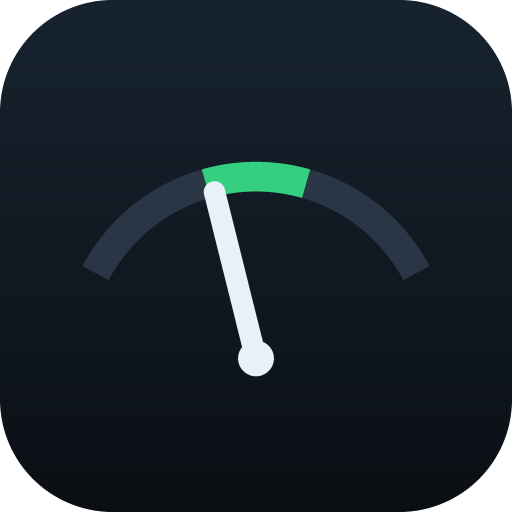
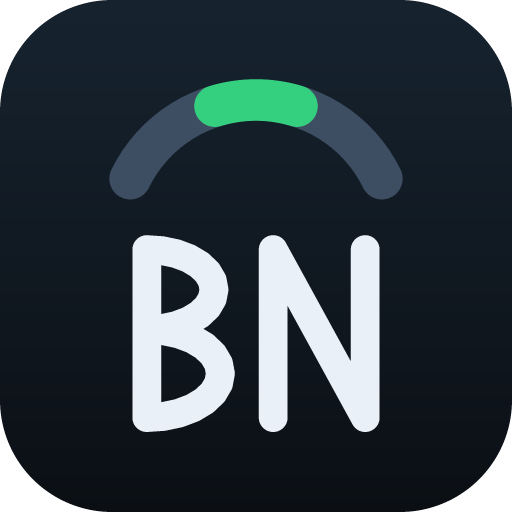
Met le « BN » dans la marque
L'icône devient le cadran en haut et « BN » en dessous, en monoline à bouts
ronds : la même langue visuelle que l'aiguille et les graduations de l'app.

Les lettres sont de la géométrie, pas du texte : aucune police à embarquer,
rendu identique partout. Un premier essai à trait 5 pour des panses de rayon 6
donnait des contrepoinçons de 1,2 unité — le B se lisait comme une tache. Trait
ramené à 0,16 de la hauteur de capitale et panses élargies : les trous font
maintenant 4,8 x 6,8 et 5,6 x 8,0. Proportions B 0,61 et N 0,72 de la
capitale, cadran éclairci pour rester lisible en 32 px.

Le rasteriseur trace désormais le cadran en polyligne comme les lettres, au
lieu d'une bande d'arc coupée à plat : bouts ronds partout, et surtout le même
tracé que le SVG. Vérifié en décodant les deux images : écart moyen de
0,64/255, 99,25 % des pixels à moins de 8, les écarts restants tenant sur des
bords d'un pixel (anticrénelage analytique de Chromium contre
suréchantillonnage 4x4).

Boîte englobante par tracé et sortie au premier segment touché : la génération
passe de 42 s à 1,8 s, pour un résultat inchangé.

favicon.svg est maintenant produit par l'outil, depuis les mêmes constantes que
les PNG : les deux ne peuvent plus diverger. Cache du service worker en v4 pour
que les nouvelles icônes remplacent les anciennes.

Changed region(s): [[0.1562, 0.1562, 0.8438, 0.8438]]

diff --git a/sw.js b/sw.js
@@ -2,7 +2,7 @@
 // Stratégie « stale-while-revalidate » : réponse immédiate depuis le cache,
 // mise à jour silencieuse en arrière-plan pour la prochaine ouverture.
 
-const CACHE = 'accordeur-v3';
+const CACHE = 'accordeur-v4';
 
 const ASSETS = [
   './',

diff --git a/README.md b/README.md
@@ -53,7 +53,7 @@ caisse, dans un endroit calme. Fais un accord après coup pour vérifier à l'or
 | `js/tunings.js` | les accordages |
 | `js/app.js` | interface : cadran, cordes, réglages |
 | `sw.js` | service worker (cache-first, mise à jour en arrière-plan) |
-| `tools/make-icons.mjs` | génère les icônes PNG (rasteriseur maison, sans dépendance) |
+| `tools/make-icons.mjs` | la marque : une seule description géométrique produit `favicon.svg` et les PNG (rasteriseur maison, sans dépendance) |
 
 La détection utilise la **méthode McLeod (MPM)** : fonction de différence
 normalisée (NSDF), choix du premier pic significatif — c'est ce qui évite les erreurs
